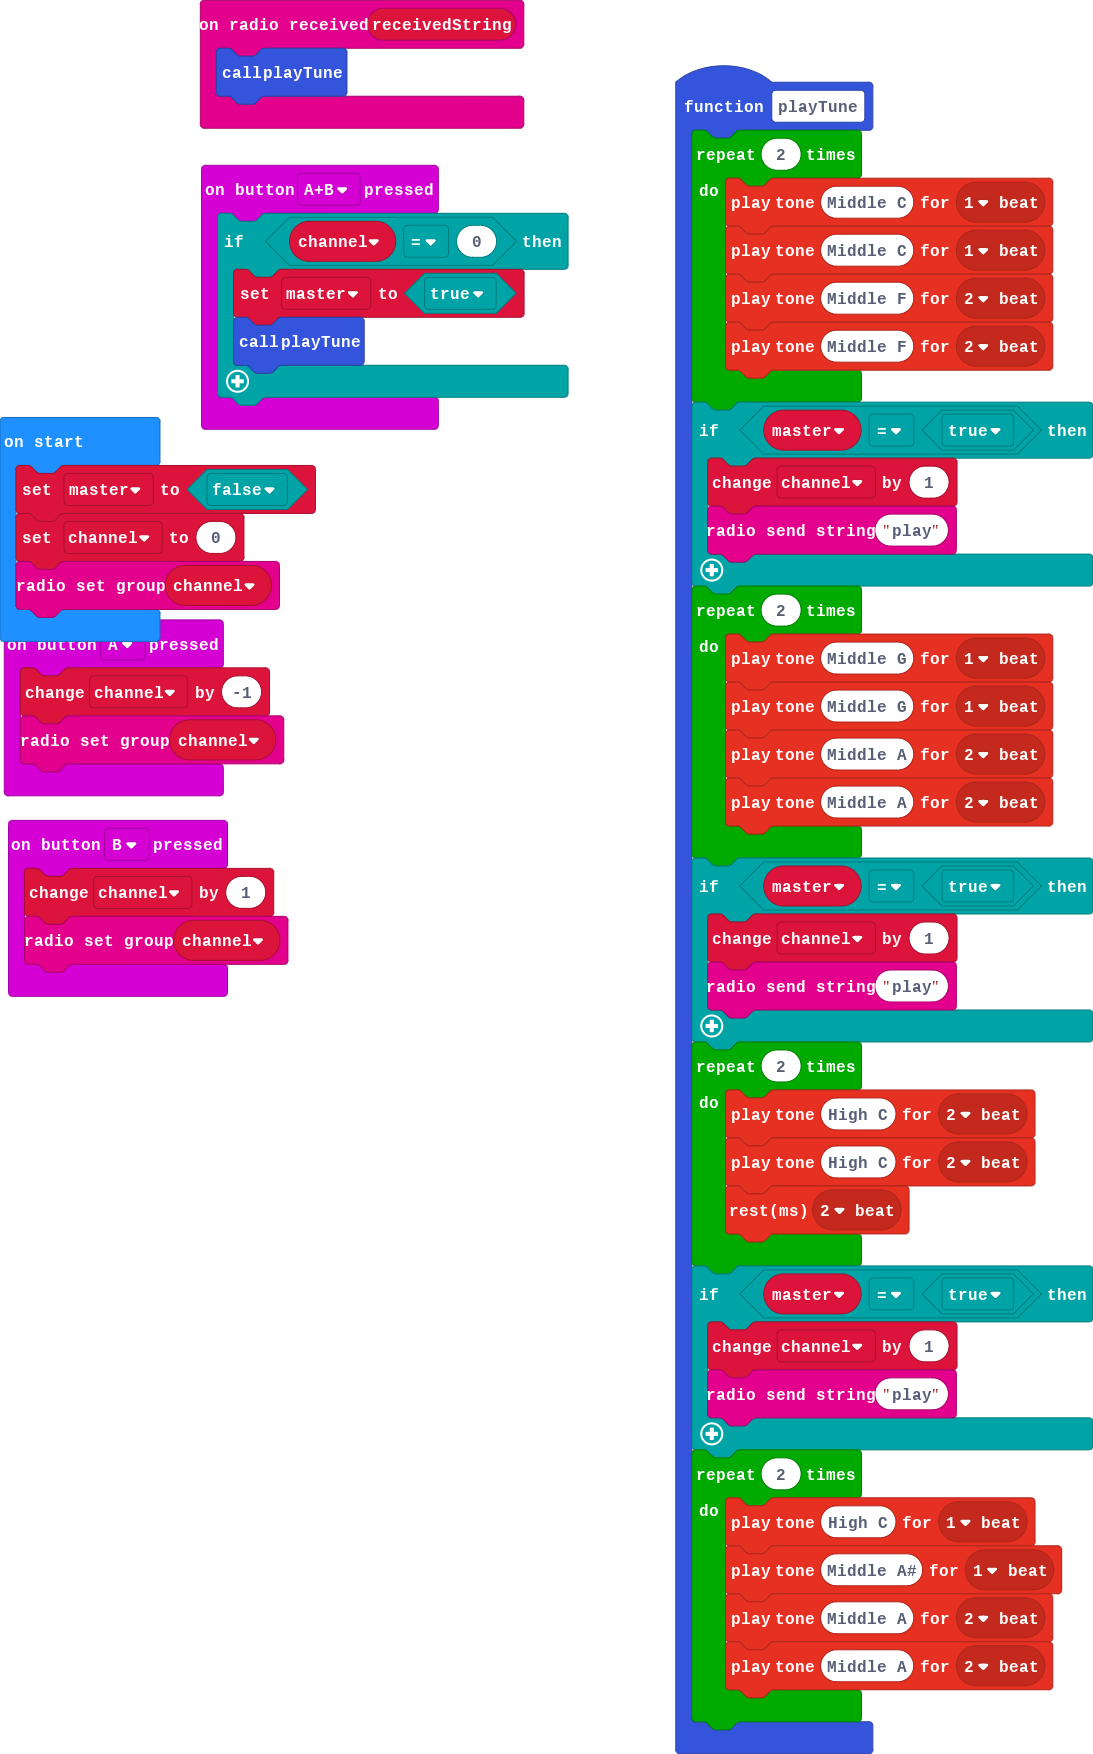
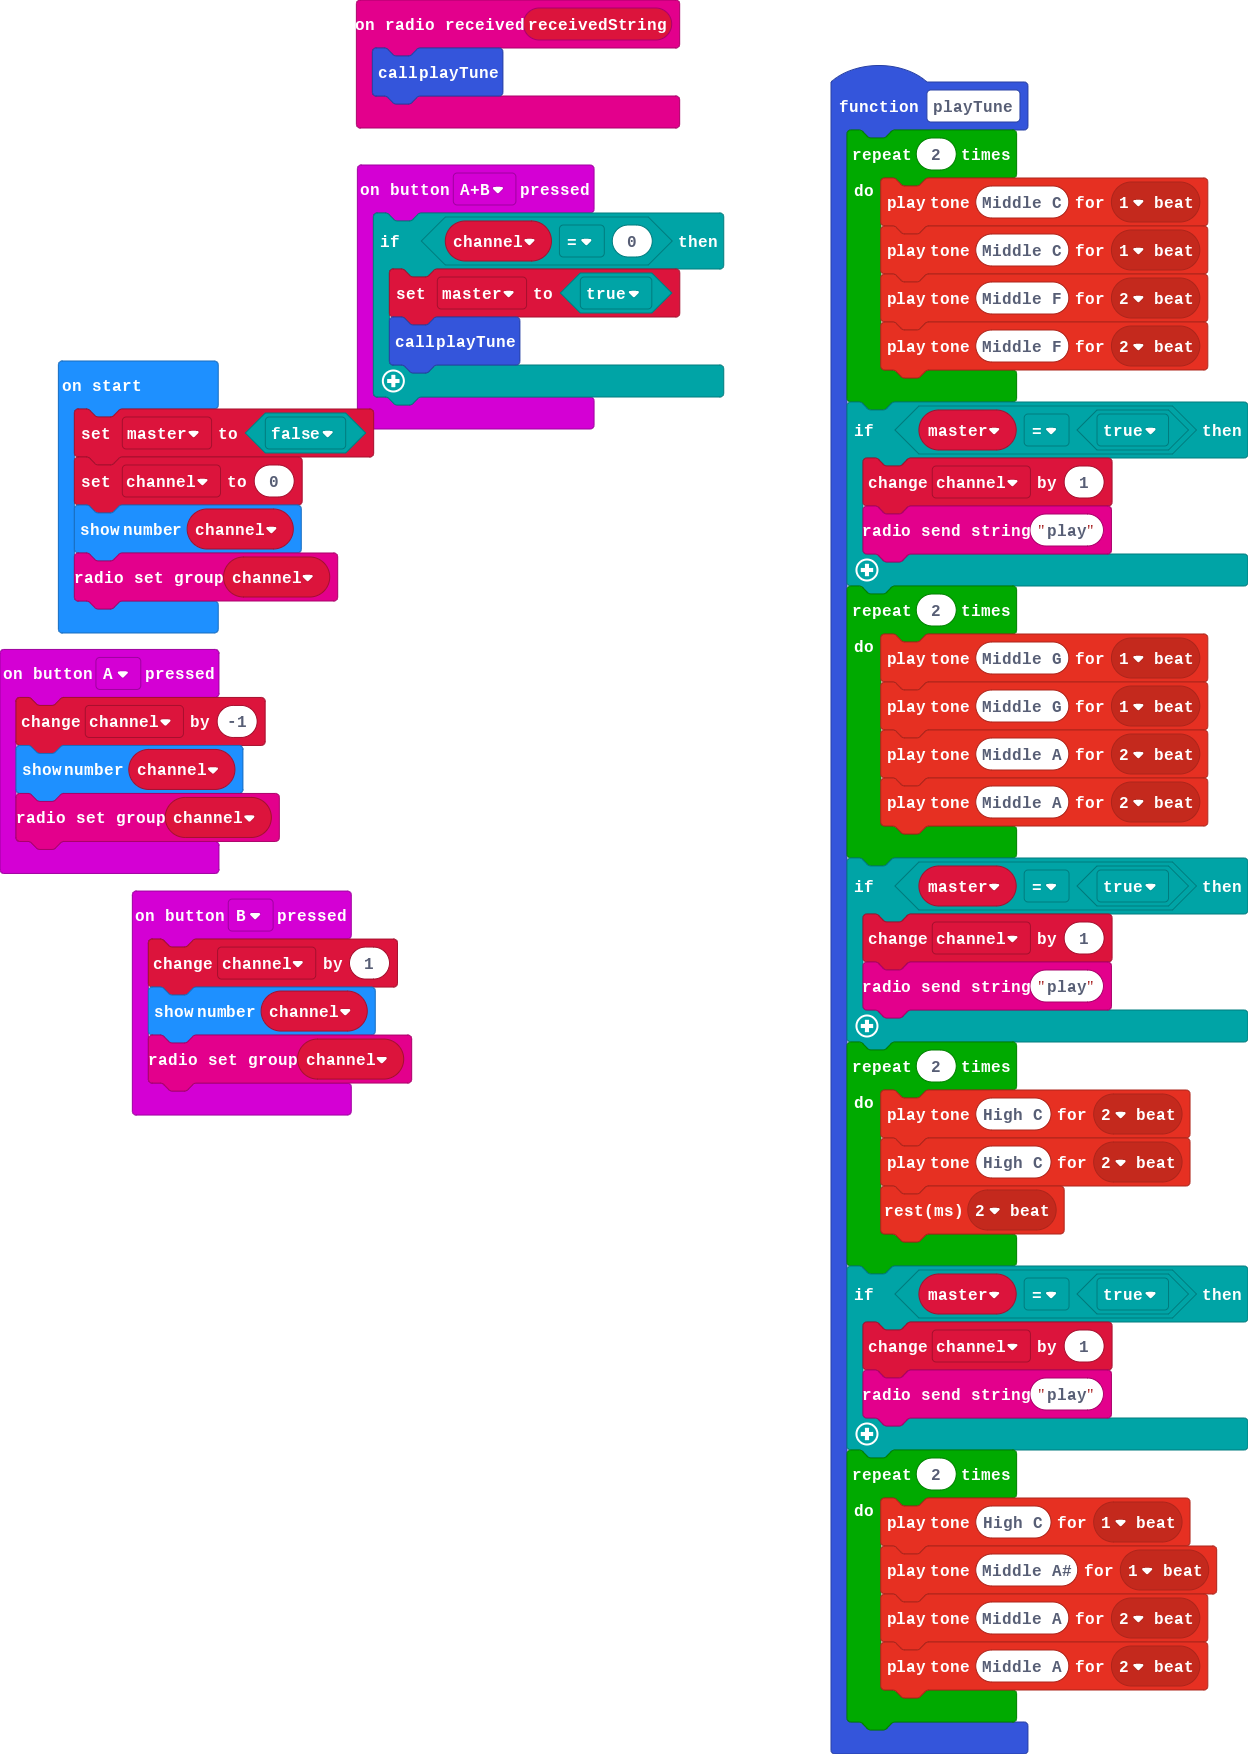
Update main.blocks, main.ts

Changed region(s): [[0.0, 0.0, 0.9954, 1.0], [0.9643, 0.7081, 0.9954, 0.7389], [0.9643, 0.4926, 0.9954, 0.5234]]

diff --git a/main.ts b/main.ts
@@ -46,14 +46,17 @@ input.onButtonPressed(Button.AB, function () {
 })
 input.onButtonPressed(Button.B, function () {
     channel += 1
+    basic.showNumber(channel)
     radio.setGroup(channel)
 })
 input.onButtonPressed(Button.A, function () {
     channel += -1
+    basic.showNumber(channel)
     radio.setGroup(channel)
 })
 let channel = 0
 let master = false
 master = false
 channel = 0
+basic.showNumber(channel)
 radio.setGroup(channel)
